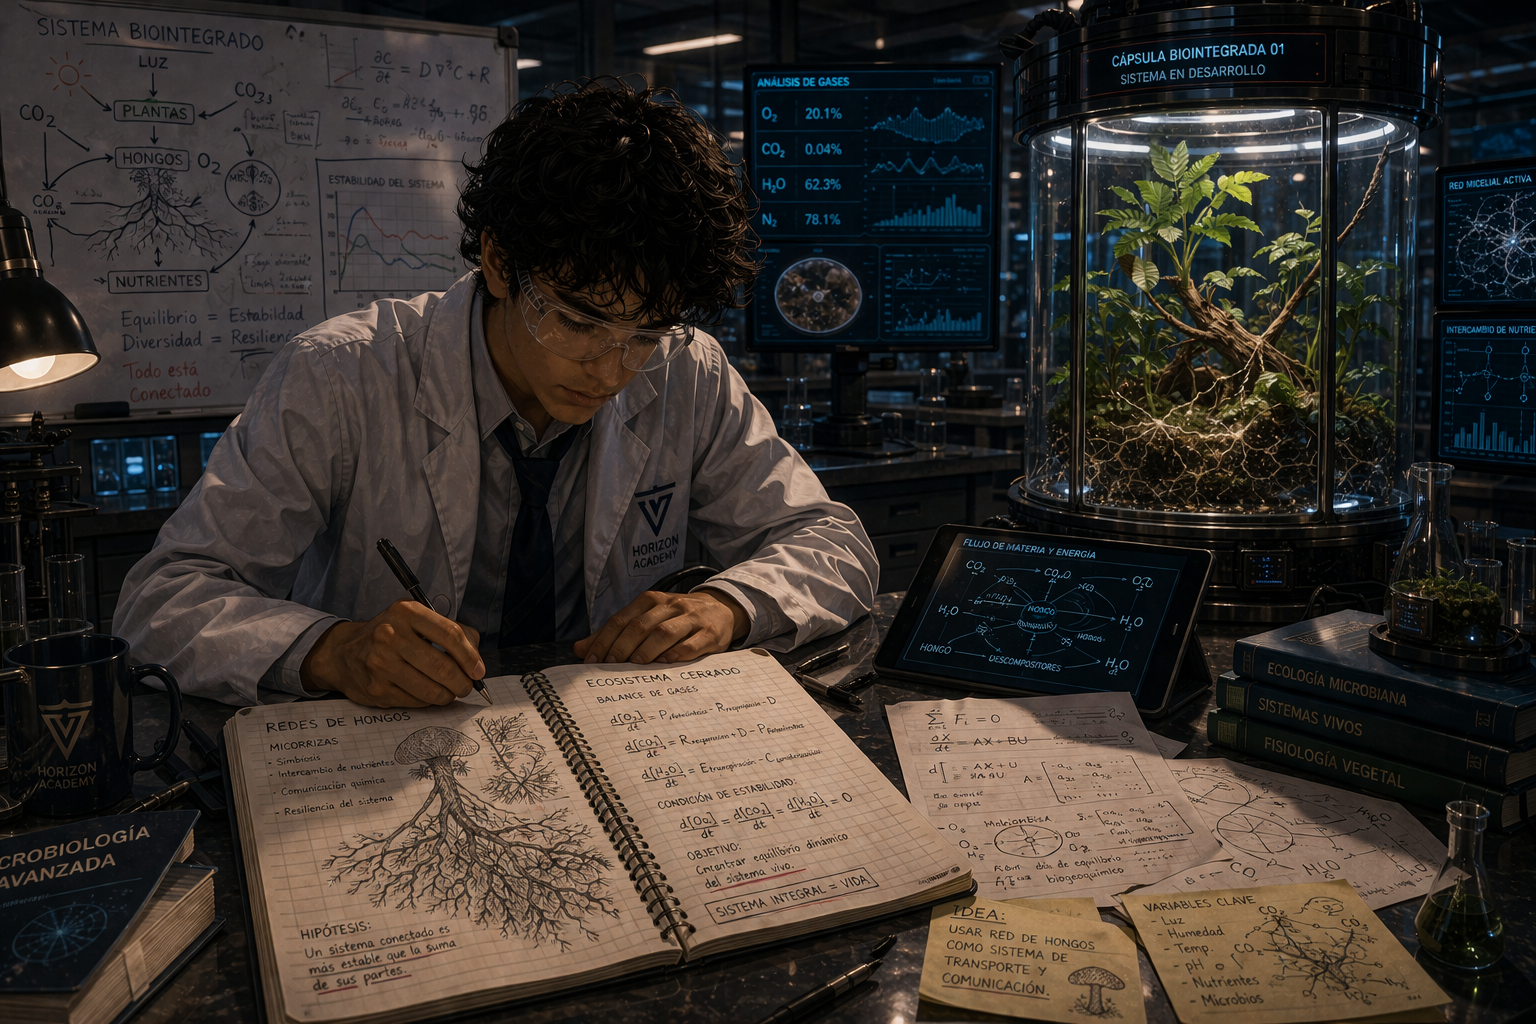
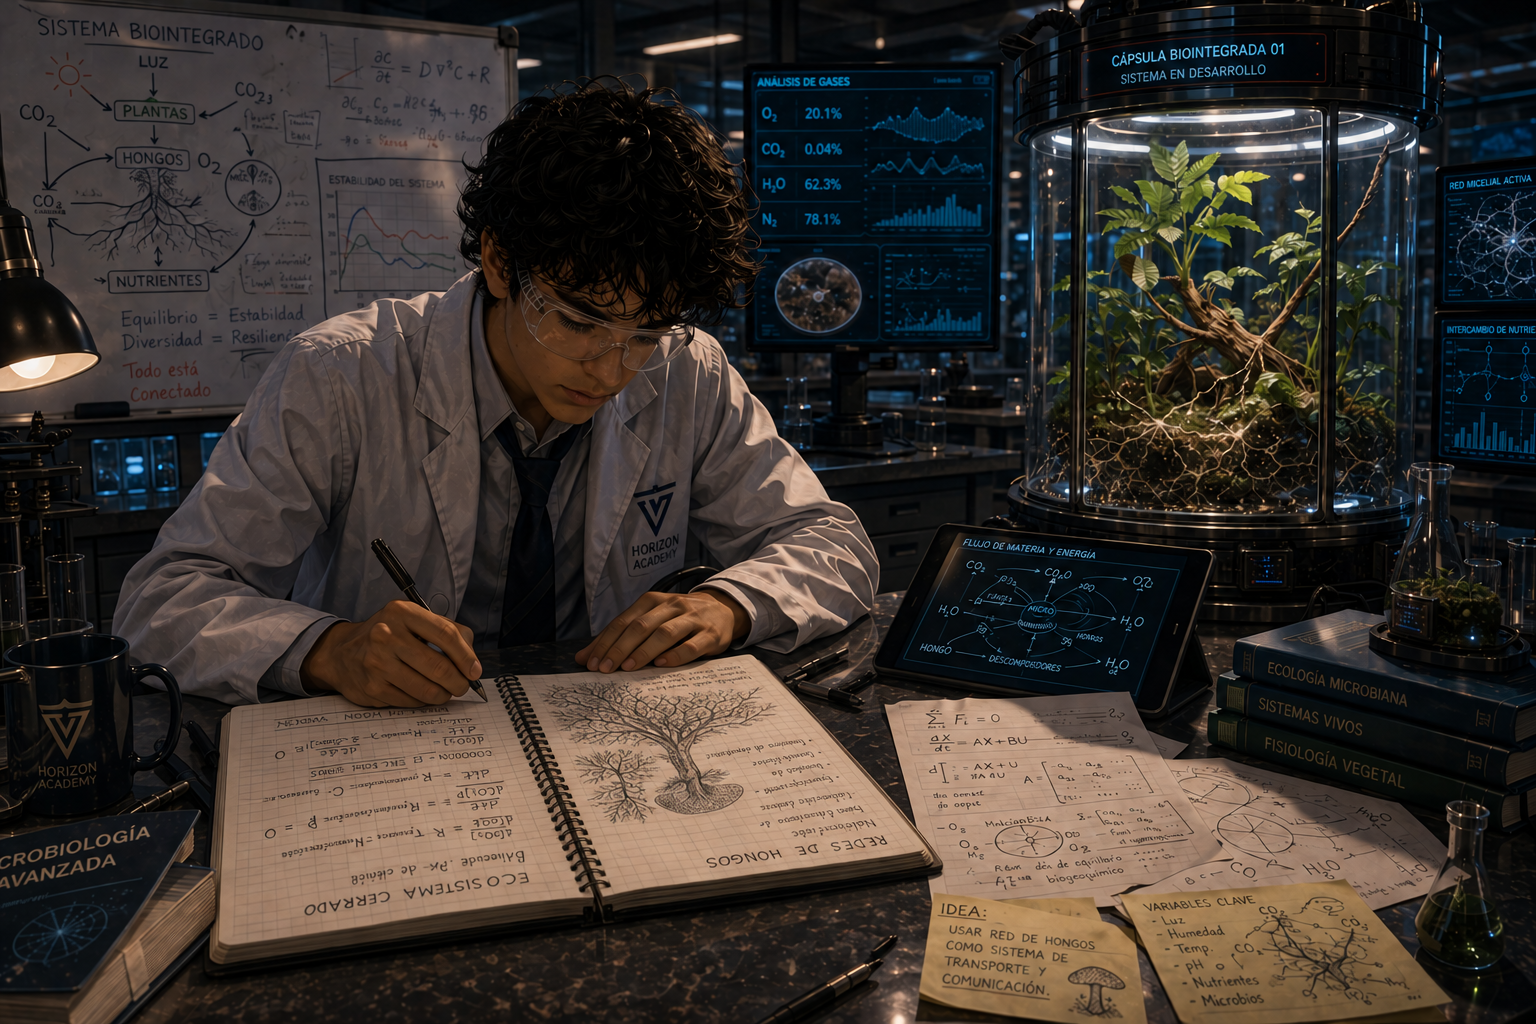
Corrige posiciones de imagenes y elimina imagen interna de Jey

diff --git a/app/api/routes/stories.py b/app/api/routes/stories.py
@@ -38,10 +38,10 @@ PREVIEW_EMAILS = {
 CHAPTER_ONE_PATH = Path(__file__).resolve().parents[2] / "content" / "voyager_chapter_1.json"
 CHAPTER_ONE_IMAGES_PATH = Path(__file__).resolve().parents[2] / "content" / "voyager_chapter_1_images"
 CHAPTER_ONE_IMAGES = {
-    "chapter-cover": "chapter-cover.png",
+    "horizon-academy": "horizon-academy.jpeg",
     "scene-1-classroom": "scene-1-classroom.png",
-    "jey": "jey.png",
     "scene-2": "scene-2.png",
+    "scene-3-room": "scene-3-room.png",
     "scene-3-bus": "scene-3-bus.png",
     "scene-3-frank": "scene-3-frank.png",
     "scene-4-entrance": "scene-4-entrance.png",
